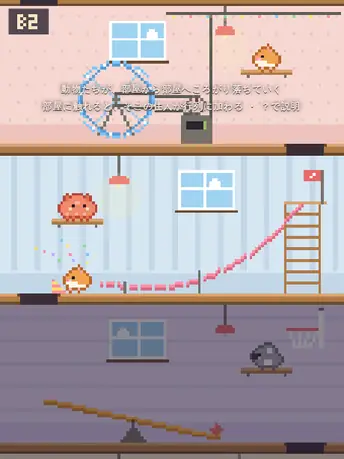
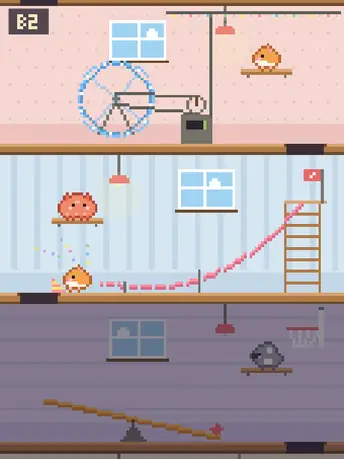
Gallery: fold LOG to newest 8 with expand button; hide #hint when shooting posters (7 works regenerated)

diff --git a/index.html b/index.html
@@ -38,6 +38,15 @@
   .about{margin:38px 2px 0;padding:24px 4px 2px;border-top:1px solid var(--line-2)}.about-kicker{margin:0 0 10px;font-size:11px;letter-spacing:.28em;color:var(--text-3)}.about h2{margin:0;font-size:16px;line-height:1.5;font-weight:700;letter-spacing:-.02em}.about p{margin:10px 0 0;color:var(--text-2);font-size:12px;line-height:1.8}.about-en{margin-top:12px!important;color:var(--text-3)!important;font-size:11px!important;line-height:1.7!important}.about-works{margin-top:12px!important;color:var(--text-3)!important;font-size:11px!important;line-height:1.7!important}
   .support{margin:42px 2px 0;padding:26px 8px 4px;position:relative;text-align:center;border-top:1px solid var(--line-2)}.support::before{content:"";position:absolute;top:-1px;left:50%;width:76px;height:1px;transform:translateX(-50%);background:linear-gradient(90deg,var(--a),var(--b));box-shadow:0 0 12px rgba(122,217,255,.18)}.support-kicker{margin:0 0 10px;font-size:11px;letter-spacing:.28em;color:var(--text-3)}.support h2{margin:0;font-size:17px;line-height:1.45;font-weight:700;letter-spacing:-.02em}.support p{margin:10px auto 18px;max-width:38ch;color:var(--text-2);font-size:12px;line-height:1.75}.support-link{display:inline-flex;align-items:center;justify-content:center;gap:8px;min-height:42px;padding:0 20px;border:1px solid rgba(255,255,255,.12);border-radius:999px;background:linear-gradient(135deg,rgba(122,217,255,.12),rgba(108,77,255,.18),rgba(255,122,217,.12));box-shadow:0 10px 28px -18px rgba(108,77,255,.65);color:var(--text-1);font-size:11px;font-weight:700;letter-spacing:.02em;transition:transform .15s ease,border-color .15s ease,background .15s ease}.support-link:active{transform:scale(.97)}.support-note{margin:10px 0 0!important;font-size:11px!important;line-height:1.6!important;color:var(--text-3)!important}@media (hover:hover){.support-link:hover{border-color:rgba(122,217,255,.28);background:linear-gradient(135deg,rgba(122,217,255,.17),rgba(108,77,255,.24),rgba(255,122,217,.16))}}
   .credit{padding:30px 2px 0;font-size:11px;letter-spacing:.1em;color:var(--text-3);text-align:center}.standalone-launch .wrap{visibility:hidden}.modal{position:fixed;inset:0;background:#000;z-index:50;opacity:0;pointer-events:none;transition:opacity .28s ease}.modal.open{opacity:1;pointer-events:auto}.modal iframe{width:100%;height:100%;height:100dvh;border:0;transform:scale(.97);transition:transform .32s cubic-bezier(.2,.7,.2,1)}.modal.open iframe{transform:none}@media (prefers-reduced-motion:reduce){.modal{transition:none}.modal iframe{transition:none;transform:none}}.modal .close::before{content:"";position:absolute;inset:-6px}.modal .close{position:fixed;top:calc(env(safe-area-inset-top) + 20px);right:16px;width:38px;height:38px;border-radius:50%;z-index:51;display:flex;align-items:center;justify-content:center;color:#fff;border:1px solid rgba(255,255,255,.16);background:rgba(10,10,16,.55);backdrop-filter:blur(12px);-webkit-backdrop-filter:blur(12px);font-size:15px;box-shadow:0 6px 20px rgba(0,0,0,.4)}
+  /* LOGの畳み: 先頭LOG_VISIBLE件だけ見せ、残りは「ほかの○作品も見る」で開く(JSが.foldを付ける。JSが動かなければ全部見える) */
+  .log .entry.fold{display:none}.log.open .entry.fold{display:block}
+  .log-more{display:flex;align-items:center;justify-content:center;gap:10px;width:100%;min-height:52px;margin:12px 0 0;padding:0 18px;border:1px solid var(--line-2);border-radius:16px;background:transparent;color:var(--text-1);font-size:13px;font-weight:600;letter-spacing:.02em;cursor:pointer;-webkit-appearance:none;appearance:none;transition:transform .15s ease,border-color .15s ease,background .15s ease}
+  .log-more .n{margin:0 .15em;color:var(--text-2);font-weight:400;font-variant-numeric:tabular-nums}
+  .log-more::after{content:"";width:7px;height:7px;border-right:1.5px solid var(--text-2);border-bottom:1.5px solid var(--text-2);transform:translateY(-2px) rotate(45deg);transition:transform .2s ease}
+  .log-more[aria-expanded="true"]::after{transform:translateY(2px) rotate(-135deg)}
+  .log-more:active{transform:scale(.98)}
+  @media (hover:hover){.log-more:hover{border-color:rgba(122,217,255,.28);background:rgba(255,255,255,.03)}}
+  @media (prefers-reduced-motion:reduce){.log-more,.log-more::after{transition:none}}
 </style>
 </head>
 <body>
@@ -157,6 +166,16 @@ function hydrateSub(box){
   var io=new IntersectionObserver(function(es){es.forEach(function(e){if(e.isIntersecting){io.unobserve(e.target);hydrateSub(e.target)}})},{rootMargin:'600px 0px'});
   tiles.forEach(function(t){io.observe(t)});
 })();
+/* ---- LOGの畳み: 上から新しい順の先頭LOG_VISIBLE件だけ見せ、残りは「ほかの○作品も見る」で開く。タイルは消さない(HTMLの並び・追加手順は不変。新作を先頭に足せば自動で数がずれる) ---- */
+(function(){
+  var LOG_VISIBLE=8,log=document.querySelector('.log');if(!log)return;
+  var rest=[].slice.call(log.querySelectorAll('.entry')).slice(LOG_VISIBLE);if(!rest.length)return;
+  rest.forEach(function(t){t.classList.add('fold')});
+  log.id='log';var btn=document.createElement('button');btn.type='button';btn.className='log-more';btn.setAttribute('aria-controls','log');
+  function paint(){var open=log.classList.contains('open');btn.setAttribute('aria-expanded',open?'true':'false');btn.innerHTML='<span>'+(open?'たたむ':'ほかの<span class="n">'+rest.length+'</span>作品も見る')+'</span>'}
+  btn.addEventListener('click',function(){log.classList.toggle('open');paint();scalePreviews();schedule();if(window.apFillPosters)window.apFillPosters()});
+  log.parentNode.insertBefore(btn,log.nextSibling);paint();
+})();
 /* ---- ポスター: posters/manifest.json に載っている作品だけ、タイルの下地に静止画を貼る。無い作品は従来どおり(暗いタイル)。生成は tools/gen_posters.py ---- */
 (function(){
   function put(box,man){
@@ -167,6 +186,7 @@ function hydrateSub(box){
     im.onload=function(){im.classList.add('on')};im.onerror=function(){if(im.parentNode)im.parentNode.removeChild(im)};
     im.src='posters/'+((box.classList.contains('current')&&it.hf)||it.f)+'?v='+it.h;box.insertBefore(im,f);/* ヒーローだけ大きい専用版(hf)があればそれを使う */
   }
-  fetch('posters/manifest.json',{cache:'no-cache'}).then(function(r){return r.ok?r.json():null}).then(function(man){if(man)boxes().forEach(function(b){put(b,man)})}).catch(function(){});
+  var MAN=null;function fill(){if(!MAN)return;boxes().forEach(function(b){if(b.offsetParent!==null)put(b,MAN)})}/* 畳まれた(display:none)タイルには貼らない。開いたときにLOGの畳みJSがもう一度呼ぶ */window.apFillPosters=fill;
+  fetch('posters/manifest.json',{cache:'no-cache'}).then(function(r){return r.ok?r.json():null}).then(function(man){if(man){MAN=man;fill()}}).catch(function(){});
 })();
 </script></body></html>

diff --git a/CHANGELOG.md b/CHANGELOG.md
@@ -1,3 +1,4 @@
+- 2026-10-06 クロード: ギャラリーのUI改善その2(Impeccable観点の批評→しゅん承認)。①LOGを先頭8件だけ表示に(index.htmlのJSが9件目以降のタイルに.foldを付けて畳み、LOG末尾の「ほかの31作品も見る」ボタンで全件開く/「たたむ」で戻す。タイルのHTMLと並び順・追加手順は不変、新作を先頭に足せば境目は自動でずれる)。39枚が同じ重みで縦6,300pxだったのが、初期は約2,600pxに。畳まれたタイルのポスター画像は開くまで読み込まない(初期の読み込みは40枚→9枚)ようposterのJSを調整。ボタンの文言は1つの要素にまとめた。②ポスターに写り込んでいた作品冒頭の操作説明(#hint)を消した。`tools/gen_posters.py`に撮影中に指定要素を隠す`hide`オプションを追加(delayで消えるのを待つ案は、NIGHT SHIFTのように自動で消えない作品があり不確実なため)。`tools/poster-config.json`にANIMAL MANSION・HAMSTER DROP・INNER EYE・RAIN RELAY・RAINBOW WALK・NIGHT SHIFT・HELD TIMEの7作品へ`{"hide":["#hint"]}`を追加し、この7枚だけ作り直した(他の33枚は変更なし、`--check`は終了コード0)。作品が毎回乱数で変わるので、絵や色は撮り直し前と少し違う。③AGENTS.mdの13章にLOGの畳み、14章に`hide`と#hintの扱いを追記。作品ファイル・ap-kit.js・worker.jsは変更なし(index.html, tools/gen_posters.py, tools/poster-config.json, posters/, AGENTS.md, CHANGELOG.md)
 - 2026-10-06 クロード: ギャラリーのUI改善(Impeccable観点の批評→しゅん承認、index.htmlのCSSと文言のみ)。①読めない小さい文字を解消: 補助文字色--text-3を#4d4d58→#7a7a85(背景とのコントラスト比2.4:1→4.8:1、基準4.5:1)に。9〜10.5pxだった文字(ヘッダーのART PLAYGROUND、LOG見出し、CURRENTタグ、About/Supportの小見出し・英文・Published works・支援の注記、末尾クレジット)を全部11pxに揃えた。CURRENTタグは作品の上で見えにくかったのでtext-2→text-1(白)に。②LOGタイル右上の▷バッジ(.entry::after)を削除(動画の再生に見えて「触る」と合わないため。開き方はヘッダーの「タップすると全画面で開くよ。」に任せる)。「プレビュー ON/OFF」を「動くプレビュー ON/OFF」に変更(何のプレビューか分かるように)。CURRENT枠のヒントの▷は今回は変更なし。作品・ap-kit.js・worker.js・posters/は変更なし(index.html, CHANGELOG.md)
 - 2026-10-06 クロード: ギャラリーに「ポスター」を追加(しゅん承認)。同時に動くiframeが2枠(LIVE_BUDGET)なので残りが黒いタイルになっていたのを、作品ごとの静止画(344×459 WebP、ヒーローのみ690×920)を下地に敷いて解消。動く枠はポスターの上にフェードインで重ね、外すときもフェードで戻す(フェード中を含めて同時に動くiframeは最大3個)。40作品分を生成(計約1MB)。index.htmlはCSSとスクリプト末尾のJSだけ変更(LOG/CURRENT行のHTMLは不変)、worker.js・作品ファイル・ap-kit.jsは変更なし。新規: `posters/`(画像+manifest.json)、`tools/gen_posters.py`(足りない/古い分だけ生成、`--check`で点検)、`tools/poster-config.json`(VOID FIELD II・INFECTION=触るまで黒、TIDE MARK=長押し、CHROMA DRIFT=重いので上限延長)。`.assetsignore`に`tools/**`を追加。AGENTS.mdに14章を追加し、0章の例外と13章の手順(ポスター生成)を更新。外部CDN(p5.js)を使うVOID FIELD II・INFECTIONは、CDNに出られない環境では`POSTER_LIB_DIR`が必要(index.html, posters/, tools/, .assetsignore, AGENTS.md, CHANGELOG.md)
 - 2026-10-05 クロード: ギャラリーのlayout改善(しゅん承認)。①LOGの並び順を「ギャラリーに載った順(新しい→古い)」に整理(git履歴の初登場時刻で判定、同時刻はart-vNN大きい順)。TWIN TIDE(v86)が先頭でBIRTHMARK(v88)・LIGHT WEB(v87)より上だった/NIGHT SHIFT(v79)がv84とv83の間にいた/MIRROR系がv75→v73→v74の順だった/COLOR BREATH・RGB MEMBRANE・VOID FIELD IIなど番号の無い試作の位置が載った時期とずれていた/末尾のv36・v35・v31がv30・v28・v27より下だった、を解消(作品の追加・削除なし、39枠のまま)。②Aboutの本文末に混入していた「 · CHROMA DRIFT」を削除。原因は2026-09-23のコミット5a5e6b6(Add CHROMA DRIFT to gallery)で、Published works行に足すべき作品名がAbout本文の末尾に入っていたこと。Published works行にCHROMA DRIFTを追加(ギャラリー40作品に対し39作品しか載っていなかった)し、並びをLOGと同じに揃えた。③LOGタイルの文字を左揃えにしてヒーローと揃え、「開く」目印の▷を動いていない枠だけの中央表示から、全タイル共通の右上表示に変更。モーダルの✕はタップ範囲だけ拡大(見た目は変更なし)。④AGENTS.md 13章にLOGの並び順のルールを追記し、CURRENT入れ替え時の「LOG先頭に移す」を「並び順に従う位置」に変更(index.html, AGENTS.md, CHANGELOG.md)

diff --git a/AGENTS.md b/AGENTS.md
@@ -239,6 +239,12 @@ if (window.APKit && APKit.isUI(x, y)) return true;
 - 新作は先頭でよい。ただしCURRENTから移す作品は、この順を保つ位置に入れる(例: v86がCURRENTだった間にv88が追加されていたら、v88の下に入れる)。
 - 追加後は、上から見て番号が逆転していないかを確認する。
 
+### ギャラリーでの見え方 — LOGは先頭8件だけ表示(2026/10〜)
+
+- `index.html` のJSが、LOGの上から `LOG_VISIBLE`(=8)件目より後のタイルに `fold` を付けて畳み、「ほかの○作品も見る」ボタンで開く。**HTMLにはこれまでどおり全タイルが並んでいる**ので、上の追加手順(LOGの先頭に1行足す等)は変わらない。新作を先頭に足せば、畳まれる境目は自動でずれる。
+- 確認するときは「最初は8件だけ見える → ボタンで全件出る → 追加した作品が先頭8件に入っている」を見る。畳まれたタイルのポスター画像は開くまで読み込まない。
+- `LOG_VISIBLE` の変更や畳みの仕組みの変更は、しゅんの承認なしにしない。
+
 ### ギャラリーでの表示名の決め方
 
 しゅんは名前にこだわらないので、**指定がなければ追加する側(チャッピー/クロード)が決めてよい。**
@@ -261,7 +267,8 @@ if (window.APKit && APKit.isUI(x, y)) return true;
 - **対象**: `index.html` の `data-src` に載っている全作品(CURRENT + LOG)。manifestに載った作品にだけ貼られる。無い作品は従来どおり暗いタイルになる(壊れはしないが、作り忘れ)。
 - **いつ作るか**: 作品をギャラリーに足したとき / 作品ファイルを直したとき / CURRENTを替えたとき。`python3 tools/gen_posters.py` が、足りない分と古い分だけ作る。`--check` は作らずに点検する(不足・古いがあれば終了コード1)。
 - **ヒーロー**: `index.html` 先頭の `data-src`(=CURRENT)だけ、大きい版(`<名前>.hero.webp`)も作る。
-- **作品ごとの調整**: 触るまで何も出ない作品・重い作品は `tools/poster-config.json`(`taps` / `holds` / `delay` / `timeout`。書式は `tools/gen_posters.py` の冒頭)。作ったら画像を目で見て、真っ黒・ほぼ一色でないか確認する(スクリプトも警告する)。
+- **作品ごとの調整**: 触るまで何も出ない作品・重い作品は `tools/poster-config.json`(`taps` / `holds` / `delay` / `timeout` / `hide`。書式は `tools/gen_posters.py` の冒頭)。作ったら画像を目で見て、真っ黒・ほぼ一色でないか確認する(スクリプトも警告する)。
+- **操作説明の写り込み**: 作品の冒頭に操作説明(`#hint`)を出す作品は、ポスターにその文字が写ってしまう(消えるのを待つ方式は、自動で消えない作品があり不確実)。`poster-config.json` に `{"hide":["#hint"]}` を足して作り直す(2026/10時点で ANIMAL MANSION・HAMSTER DROP・INNER EYE・RAIN RELAY・RAINBOW WALK・NIGHT SHIFT・HELD TIME に設定済み)。新作に `#hint` があれば同じように足し、できたポスターに文字が写っていないか目で見る。
 - **外部CDN**: p5.js などをCDNから読む作品は、CDNに出られない環境では環境変数 `POSTER_LIB_DIR` が要る(`tools/gen_posters.py` の冒頭)。
 - **サイズ・画質**: タイル344×459、ヒーロー690×920、WebP q70。変えるときは `RENDER_VERSION` を上げる(全ポスターが「古い」扱いになり作り直しになる)。
 - **ポスターは撮った時点の1コマ**: 作品は毎回乱数で変わるので、ライブとは絵や色が違う。作品ファイルを変えない限りこの差は直せない。
